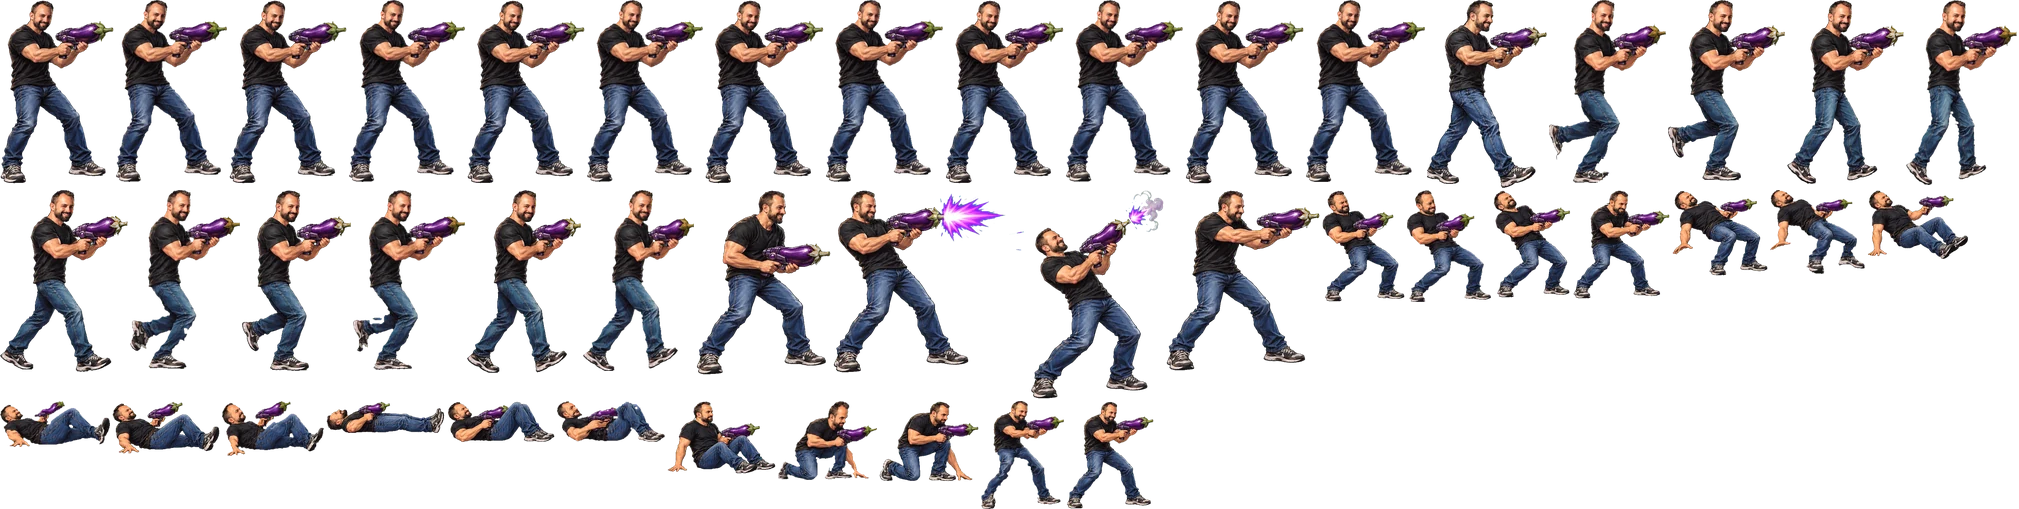
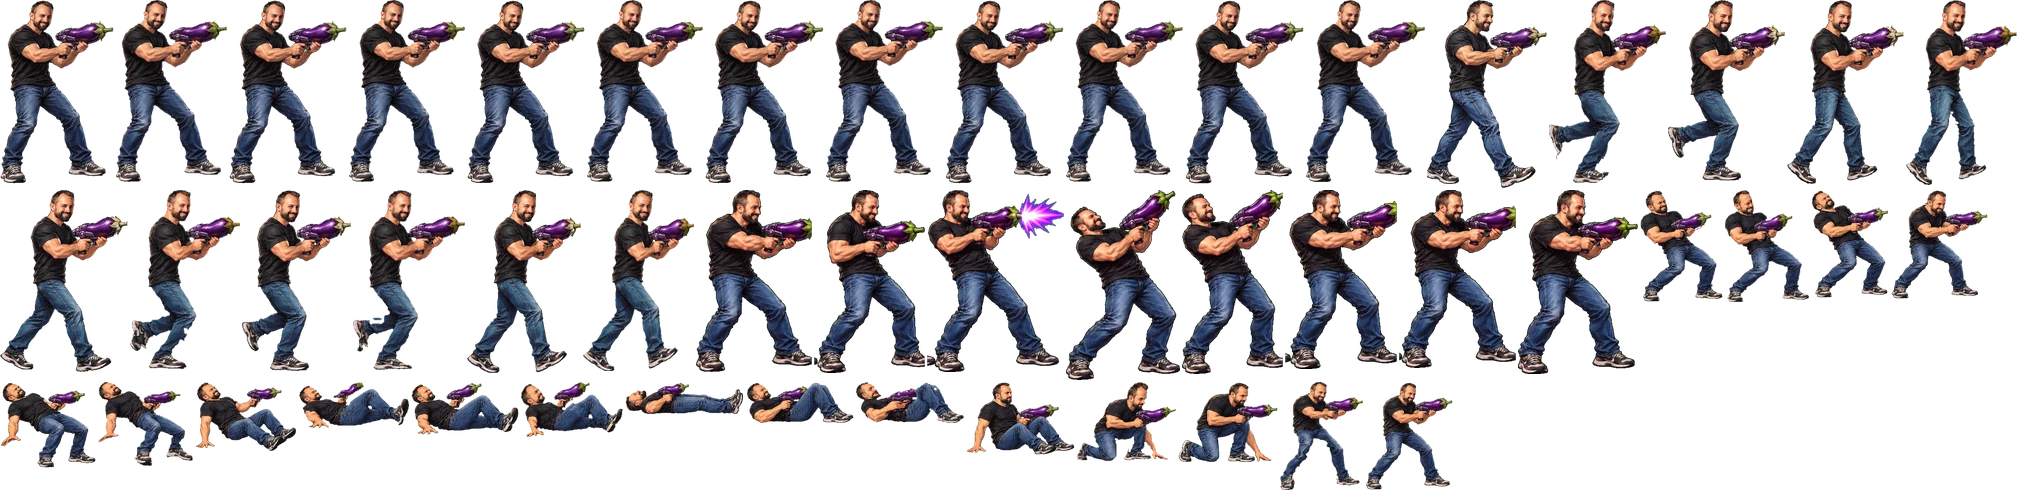
Art repack: hand-drawn 8-frame Bob shoot + Yetti walker attack @ 16 fps
Game Art replaced the 7-frame HOLD-interpolated bob_shoot and
yetti1_attack with 8 hand-drawn v3 frames each (00..07, 16 fps; see
/workspace/bdb-art/sprites/FPS.md).

- tools/pack-flat.py: spec shoot/attack 8@16 with a per-anim first
  index (v3 sheets start at 00); new `--only key,...` mode repacks just
  those atlases without wiping assets/chars or recopying packet media.
- assets/chars: bob + yetti_walker repacked (8 distinct frames each, no
  HOLD reuse). Other anims are the same source art (WebP re-encode
  noise only). yetti_guard keeps its 7-frame yetti2 attack. Known fist
  clip on yetti1_attack_05 left as delivered.
- Stage 1 character GPU residency 18.88 -> 18.73 MiB (budget 20).
- atlas-spec tests: shoot/attack 8 distinct frames at 16 fps; guard 7.

npm test 106/106.

diff --git a/tools/pack-flat.py b/tools/pack-flat.py
@@ -2,14 +2,16 @@
 """Pack BDB sprites (v2 higher-fps) + clothed silhouette stand-ins.
 
 - Reads /workspace/bdb-art/sprites MAIN folder (ignores _v1/ and _old/).
-- Spec: FPS.md — bob idle12@12 walk12@18 shoot7@16 hurt5@14 knockdown7@14 getup7@14;
-  yetti1/2 idle12@12 walk16@18 attack7@16 hurt5@14 knockdown7@14.
+- Spec: FPS.md — bob idle12@12 walk12@18 shoot8@16 hurt5@14 knockdown7@14 getup7@14;
+  yetti1/2 idle12@12 walk16@18 attack 8@16 (yetti1, hand-drawn v3) / 7@16 (yetti2) hurt5@14 knockdown7@14.
+  Hand-drawn v3 sheets are numbered 00..07; everything else starts at 01 (third spec field).
 - Dedupes identical pixel frames in the atlas; anim defs re-reference shared frames.
 - Trims alpha, packs webp, downscales by DRAW_SCALE (~0.58) for iPhone GPU.
 - canvas/baseline stay logical 720×600 / 570; anims.scale = DRAW_SCALE so
   fighter.js `def.scale / m.scale` keeps on-screen size.
 
 Run from repo root: node tools/make-placeholders.mjs
+Repack only some atlases (no wipe, no media copy): python3 tools/pack-flat.py --only bob,yetti_walker
 """
 from pathlib import Path
 from PIL import Image, ImageDraw
@@ -19,8 +21,14 @@ DRAW_SCALE = 0.38  # PACK_SCALE_NOTE: 0.58 draw intent overshoots ~42MiB stage1 
 MAXW = 2048
 PAD = 2
 
-art = Path(sys.argv[1] if len(sys.argv) > 1 else '/workspace/bdb-art/sprites')
-packet = Path(sys.argv[2] if len(sys.argv) > 2 else '/workspace/bdb-packet/src/Claudia_Handoff/game/public/game')
+args, only = [], None
+argv = iter(sys.argv[1:])
+for a in argv:
+  if a == '--only': only = set(next(argv).split(','))
+  elif a.startswith('--only='): only = set(a[len('--only='):].split(','))
+  else: args.append(a)
+art = Path(args[0] if len(args) > 0 else '/workspace/bdb-art/sprites')
+packet = Path(args[1] if len(args) > 1 else '/workspace/bdb-packet/src/Claudia_Handoff/game/public/game')
 out = Path('assets/chars')
 out.mkdir(parents=True, exist_ok=True)
 
@@ -29,11 +37,11 @@ fps_ms = lambda fps: max(1, int(1000 / fps + 0.5))  # half-up; matches JS Math.r
 
 REAL = {
   'bob': ('bob', {
-    'idle': (12, 12), 'walk': (12, 18), 'shoot': (7, 16),
+    'idle': (12, 12), 'walk': (12, 18), 'shoot': (8, 16, 0),
     'hurt': (5, 14), 'knockdown': (7, 14), 'getup': (7, 14),
   }),
   'yetti_walker': ('yetti1', {
-    'idle': (12, 12), 'walk': (16, 18), 'attack': (7, 16),
+    'idle': (12, 12), 'walk': (16, 18), 'attack': (8, 16, 0),
     'hurt': (5, 14), 'knockdown': (7, 14),
   }),
   'yetti_guard': ('yetti2', {
@@ -141,7 +149,8 @@ def pack(key, anims_spec, source=None):
     entries = {}
     x = y = rowh = W = H = 0
 
-  for anim, (count, fps) in anims_spec.items():
+  for anim, (count, fps, *first) in anims_spec.items():
+    first = first[0] if first else 1
     hold = fps_ms(fps) if fps > 0 else 1000
     a = {
       'name': f'{key}_{anim}',
@@ -149,7 +158,7 @@ def pack(key, anims_spec, source=None):
       'loop': anim in LOOP or anim.startswith('run'),
       'fps': fps,
     }
-    for i in range(1, count + 1):
+    for i in range(first, first + count):
       logical += 1
       logical_name = f'{key}_{anim}_{i:02d}'
       im = load_frame(source, anim, i) if source else silhouette(key, anim, i)
@@ -200,17 +209,24 @@ def pack(key, anims_spec, source=None):
   print(f'{key}: logical={logical} unique={unique} reused={reused} pages={len(pages)}')
 
 
-# clean old char atlases for keys we own (keep nothing stale)
-for p in list(out.glob('*')):
-  if p.suffix in {'.webp', '.json'}:
-    p.unlink()
+if only:
+  unknown = only - set(REAL) - set(STANDINS)
+  if unknown:
+    sys.exit(f'unknown atlas keys: {sorted(unknown)}')
+else:
+  # clean old char atlases for keys we own (keep nothing stale)
+  for p in list(out.glob('*')):
+    if p.suffix in {'.webp', '.json'}:
+      p.unlink()
 
 for key, (source, counts) in REAL.items():
-  pack(key, counts, source)
+  if not only or key in only:
+    pack(key, counts, source)
 for key, counts in STANDINS.items():
-  pack(key, counts)
+  if not only or key in only:
+    pack(key, counts)
 
-for path in ['assets/bg', 'assets/audio/voice', 'assets/cutscenes', 'docs/shots']:
+for path in ([] if only else ['assets/bg', 'assets/audio/voice', 'assets/cutscenes', 'docs/shots']):
   Path(path).mkdir(parents=True, exist_ok=True)
 voices = {
   'bdb-open': 'bdb_open', 'bdb-produce': 'bdb_produce', 'papacito-laugh': 'bdb_laugh',
@@ -218,10 +234,11 @@ voices = {
   'turn-back-papi': 'yetti_turnback', 'papi-serious': 'choir_serious',
   'intervention': 'lecturer_intervention', 'council-denies': 'wingman_council',
 }
-for src, dst in voices.items():
+for src, dst in ({} if only else voices).items():
   shutil.copyfile(packet / 'voices' / f'{src}.mp3', Path('assets/audio/voice') / f'{dst}.mp3')
-shutil.copyfile(packet / 'bdb-rise.mp3', 'assets/audio/bdb-rise.mp3')
-for clip in ['opening', 'victory']:
+if not only:
+  shutil.copyfile(packet / 'bdb-rise.mp3', 'assets/audio/bdb-rise.mp3')
+for clip in ([] if only else ['opening', 'victory']):
   shutil.copyfile(packet / 'cutscenes' / f'{clip}.mp4', Path('assets/cutscenes') / f'{clip}.mp4')
   if shutil.which('ffmpeg'):
     subprocess.run([
@@ -231,7 +248,7 @@ for clip in ['opening', 'victory']:
     ], check=True)
   else:
     Image.open(packet / 'console' / 'chapter1-boulevard.webp').convert('RGB').save(f'assets/cutscenes/{clip}.jpg')
-for bg in ['chapter1-boulevard', 'chapter2-clouds', 'chapter3-castle', 'astra-keep']:
+for bg in ([] if only else ['chapter1-boulevard', 'chapter2-clouds', 'chapter3-castle', 'astra-keep']):
   Image.open(packet / 'console' / f'{bg}.webp').resize((1280, 720), Image.Resampling.LANCZOS).save(
     f'assets/bg/{bg}.webp', quality=90)
 

diff --git a/docs/LENGTH-DIFFICULTY.md b/docs/LENGTH-DIFFICULTY.md
@@ -66,3 +66,9 @@ Measured **2026-10-28** on `bdb-scroll` (length/difficulty pass, Claude Opus 5.5
 - **Nightmare** is not bot-clearable (S2/S3 zone 5 wave 2 snowball wall). It already wasn't at `ab4cc15` (S2 boss: 81 bot deaths), so this is not a regression, but Nightmare has not been tuned for the longer stages.
 - **Story** clears in ~415 s with 0 bot deaths (S1 125 s), below the RWB band by design (5 hearts, 1.6× damage).
 - New plates are mirrored/zoomed/regraded derivatives, not new paintings; `s1-mid5` keeps the readable (unmirrored) MOTEL sign.
+
+## In-progress steer (same pass)
+
+Game Art dropped hand-drawn **8-frame** `bob_shoot_00..07` and `yetti1_attack_00..07` at **16 fps** under `/workspace/bdb-art/sprites` (see `FPS.md`; 146 frames total). **Repack and ship** those into `assets/chars` before closing this pass. Fist clip on `yetti1_attack_05` is known — leave it. Details: `docs/ART-UPDATE-STEER.md` and `/tmp/bdb-length-claude-addendum.md`.
+
+**Status: done** (art repack commit on `bdb-scroll`). `bob_shoot` and `yetti_walker_attack` are now the 8 hand-drawn v3 frames (`00..07`) at 16 fps, packed by `python3 tools/pack-flat.py --only bob,yetti_walker`, which rebuilds just those two atlases. Other Bob/walker anims are unchanged apart from WebP re-encode noise. `yetti_guard` keeps its 7-frame `yetti2_attack` (not redrawn). The `attack_05` fist clip is left as delivered.

diff --git a/docs/ART-UPDATE-STEER.md b/docs/ART-UPDATE-STEER.md
@@ -1,0 +1,11 @@
+# ADDENDUM (same pass — do not restart length work)
+
+Game Art updated `/workspace/bdb-art/sprites` with **hand-drawn** `bob_shoot_00`–`07` and `yetti1_attack_00`–`07` (8 frames each @ **16 fps**). See `/workspace/bdb-art/sprites/FPS.md` (146 frames total).
+
+**Required before you finish this pass:**
+1. Repack Bob + yetti_walker (and any atlas that consumes yetti1_attack) from those new frames using existing `tools/pack.py` / import flow. Playback fps for those two anims must be **16**. Frame lists must be `00..07` (8 frames).
+2. Wire/pack into `assets/chars/` so the game uses them (not the old 7-frame HOLD-interp sheets).
+3. Known issue: fist in `yetti1_attack_05` is slightly clipped on the right — **leave as-is**, do not “fix” or regenerate art.
+4. Keep length/difficulty work; this is additive. Still no Fable / no extra credits. Commit on `bdb-scroll`. Update `/tmp/bdb-length-claude-report.md` to mention the art repack.
+
+Continue from current length work — do not throw away stage rebuild progress.
